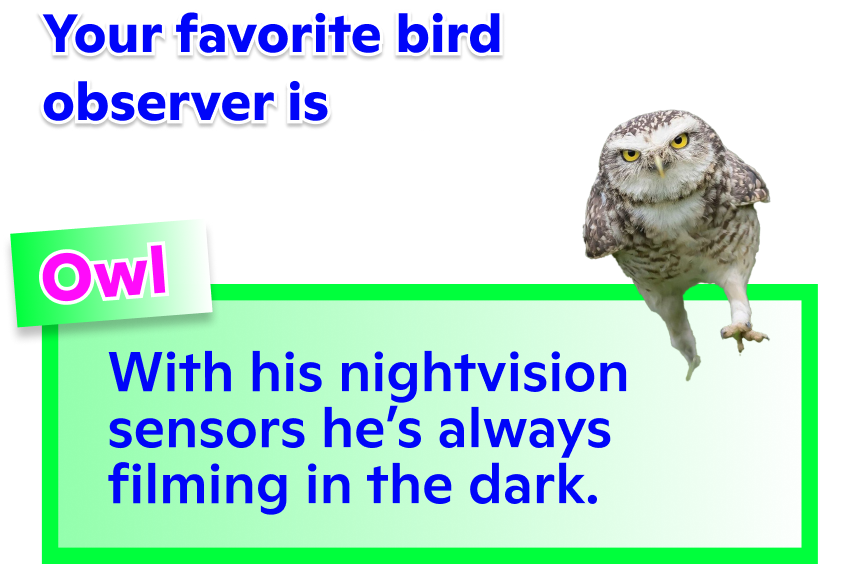
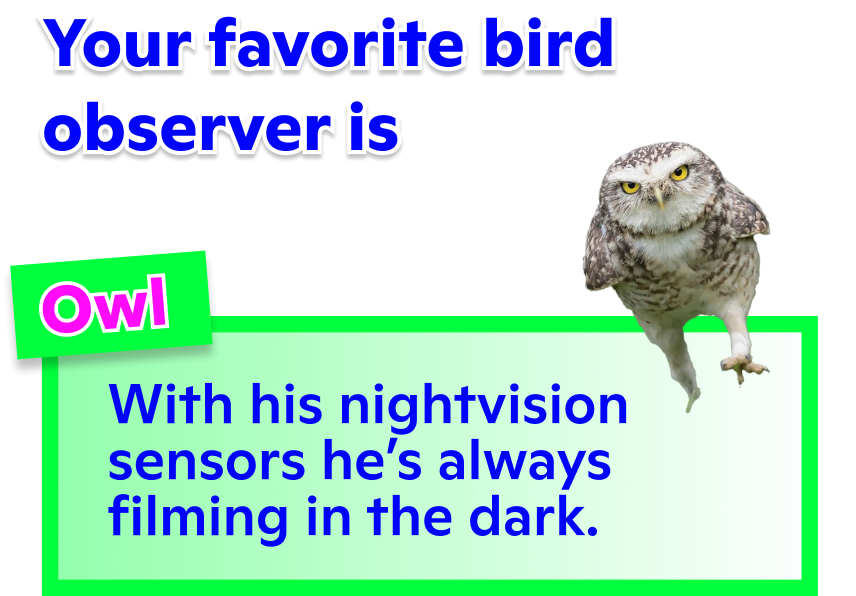
Aggiornamento automatico

diff --git a/output.html b/output.html
@@ -47,7 +47,7 @@
 	.section-2 img.bird {
 	width: 250px;
 	position: absolute;
-	margin-top: 160px;
+	margin-top: 140px;
 	margin-left: 180px;
 	}
 	.section-2 .text-image {
